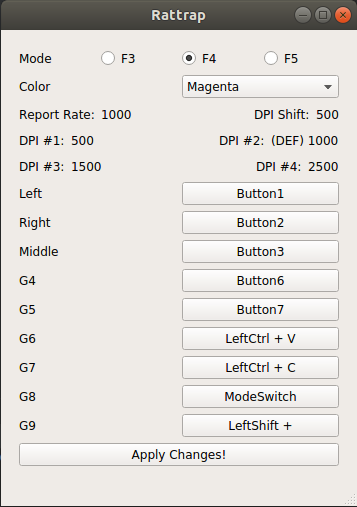
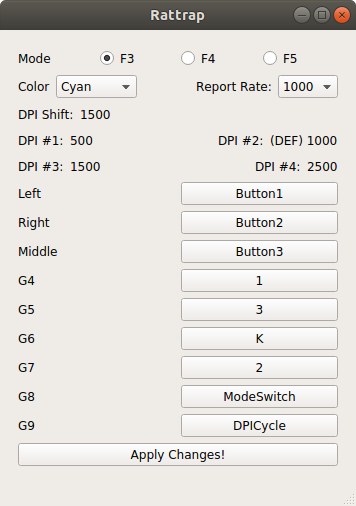
Add functionality to control report rate, remove unnecessary lines

diff --git a/ui_rattrap.py b/ui_rattrap.py
@@ -56,23 +56,29 @@ class Ui_Rattrap(object):
         self.color.addItem("")
         self.color.addItem("")
         self.horizontalLayout_3.addWidget(self.color)
+        spacerItem = QtWidgets.QSpacerItem(40, 20, QtWidgets.QSizePolicy.Expanding, QtWidgets.QSizePolicy.Minimum)
+        self.horizontalLayout_3.addItem(spacerItem)
+        self.label_rate = QtWidgets.QLabel(self.widget)
+        self.label_rate.setObjectName("label_rate")
+        self.horizontalLayout_3.addWidget(self.label_rate)
+        self.rate = QtWidgets.QComboBox(self.widget)
+        self.rate.setObjectName("rate")
+        self.rate.addItem("")
+        self.rate.addItem("")
+        self.rate.addItem("")
+        self.rate.addItem("")
+        self.horizontalLayout_3.addWidget(self.rate)
         self.verticalLayout_3.addLayout(self.horizontalLayout_3)
         self.horizontalLayout_16 = QtWidgets.QHBoxLayout()
         self.horizontalLayout_16.setObjectName("horizontalLayout_16")
-        self.label_rate = QtWidgets.QLabel(self.widget)
-        self.label_rate.setObjectName("label_rate")
-        self.horizontalLayout_16.addWidget(self.label_rate)
-        self.rate = QtWidgets.QLabel(self.widget)
-        self.rate.setObjectName("rate")
-        self.horizontalLayout_16.addWidget(self.rate)
-        spacerItem = QtWidgets.QSpacerItem(40, 20, QtWidgets.QSizePolicy.Expanding, QtWidgets.QSizePolicy.Minimum)
-        self.horizontalLayout_16.addItem(spacerItem)
         self.label = QtWidgets.QLabel(self.widget)
         self.label.setObjectName("label")
         self.horizontalLayout_16.addWidget(self.label)
         self.dpi_shift = QtWidgets.QLabel(self.widget)
         self.dpi_shift.setObjectName("dpi_shift")
         self.horizontalLayout_16.addWidget(self.dpi_shift)
+        spacerItem1 = QtWidgets.QSpacerItem(40, 20, QtWidgets.QSizePolicy.Expanding, QtWidgets.QSizePolicy.Minimum)
+        self.horizontalLayout_16.addItem(spacerItem1)
         self.verticalLayout_3.addLayout(self.horizontalLayout_16)
         self.horizontalLayout_14 = QtWidgets.QHBoxLayout()
         self.horizontalLayout_14.setObjectName("horizontalLayout_14")
@@ -82,8 +88,8 @@ class Ui_Rattrap(object):
         self.dpi1 = QtWidgets.QLabel(self.widget)
         self.dpi1.setObjectName("dpi1")
         self.horizontalLayout_14.addWidget(self.dpi1)
-        spacerItem1 = QtWidgets.QSpacerItem(40, 20, QtWidgets.QSizePolicy.Expanding, QtWidgets.QSizePolicy.Minimum)
-        self.horizontalLayout_14.addItem(spacerItem1)
+        spacerItem2 = QtWidgets.QSpacerItem(40, 20, QtWidgets.QSizePolicy.Expanding, QtWidgets.QSizePolicy.Minimum)
+        self.horizontalLayout_14.addItem(spacerItem2)
         self.label_dpi2 = QtWidgets.QLabel(self.widget)
         self.label_dpi2.setObjectName("label_dpi2")
         self.horizontalLayout_14.addWidget(self.label_dpi2)
@@ -99,8 +105,8 @@ class Ui_Rattrap(object):
         self.dpi3 = QtWidgets.QLabel(self.widget)
         self.dpi3.setObjectName("dpi3")
         self.horizontalLayout_15.addWidget(self.dpi3)
-        spacerItem2 = QtWidgets.QSpacerItem(40, 20, QtWidgets.QSizePolicy.Expanding, QtWidgets.QSizePolicy.Minimum)
-        self.horizontalLayout_15.addItem(spacerItem2)
+        spacerItem3 = QtWidgets.QSpacerItem(40, 20, QtWidgets.QSizePolicy.Expanding, QtWidgets.QSizePolicy.Minimum)
+        self.horizontalLayout_15.addItem(spacerItem3)
         self.label_dpi4 = QtWidgets.QLabel(self.widget)
         self.label_dpi4.setObjectName("label_dpi4")
         self.horizontalLayout_15.addWidget(self.label_dpi4)
@@ -224,7 +230,10 @@ class Ui_Rattrap(object):
         self.color.setItemText(6, _translate("Rattrap", "White"))
         self.color.setItemText(7, _translate("Rattrap", "Green"))
         self.label_rate.setText(_translate("Rattrap", "Report Rate:"))
-        self.rate.setText(_translate("Rattrap", "Not Defined"))
+        self.rate.setItemText(0, _translate("Rattrap", "125"))
+        self.rate.setItemText(1, _translate("Rattrap", "250"))
+        self.rate.setItemText(2, _translate("Rattrap", "500"))
+        self.rate.setItemText(3, _translate("Rattrap", "1000"))
         self.label.setText(_translate("Rattrap", "DPI Shift:"))
         self.dpi_shift.setText(_translate("Rattrap", "Not Defined"))
         self.label_dpi1.setText(_translate("Rattrap", "DPI #1:"))

diff --git a/application.py b/application.py
@@ -6,16 +6,15 @@ from db_helper import DBHelper, sql  # Change this later
 from ui_rattrap import Ui_Rattrap
 
 
-class WTFException(Exception):
-    pass
-
-
 class RattrapWindow(QtWidgets.QMainWindow, Ui_Rattrap):
     def __init__(self):
         super().__init__()
         self.setupUi(self)
+
         self.resize(356, 456)
+        self.move(QtWidgets.QApplication.desktop().screen().rect().center() - self.rect().center())
         self.setWindowTitle("Rattrap")
+
         self.current_mode_name = None
 
         self.radio_buttons = [i for i in [getattr(self, "radiobtn_mode" + i) for i in "123"]]
@@ -23,10 +22,12 @@ class RattrapWindow(QtWidgets.QMainWindow, Ui_Rattrap):
             radio_btn.clicked.connect(self.set_current_mode)
         self.radiobtn_mode1.setChecked(True)
 
-        self.color.currentTextChanged.connect(self.color_changed)
+        self.combo_boxes = [self.color, self.rate]
+        for combo_box in self.combo_boxes:
+            combo_box.currentTextChanged.connect(self.combo_box_changed)
 
-        self.not_changeable_items = [getattr(self, "dpi" + i) for i in "1234"] + [self.rate] + [self.dpi_shift]
-        print(self.not_changeable_items)
+        self.unchangeable_items = [getattr(self, "dpi" + i) for i in "1234"] + [self.dpi_shift]
+
         self.buttons = [self.right, self.middle, self.left]
         self.buttons.extend([getattr(self, "g" + str(i)) for i in range(4, 10)])
         for button in self.buttons:
@@ -57,14 +58,17 @@ class RattrapWindow(QtWidgets.QMainWindow, Ui_Rattrap):
     def set_current_mode(self):
         self.current_mode_name = "f" + str([i.isChecked() for i in self.radio_buttons].index(True) + 3)  # f3, f4 or f5
         current_mode = self.get_mode(self.current_mode_name)
-        self.color.setCurrentText(current_mode["color"].title())
-        for key in current_mode:
-            for item in self.buttons + self.not_changeable_items:
-                if item.objectName() == key:
-                    item.setText(current_mode[key])
 
-    def color_changed(self, color):
-        self.conn.update_value("profiles", "color", color.lower(), name=self.current_mode_name)
+        for item in self.combo_boxes + self.unchangeable_items + self.buttons:
+            name = item.objectName()
+            try:
+                item.setText(current_mode[name])
+            except AttributeError:
+                item.setCurrentText(current_mode[name].title())
+
+    def combo_box_changed(self, value):
+        property_name = self.sender().objectName()
+        self.conn.update_value("profiles", property_name, value.lower(), name=self.current_mode_name)
 
     def assign_shortcut(self):
         button = self.sender()

diff --git a/ratslap.py b/ratslap.py
@@ -11,10 +11,6 @@ r = "r"
 c = "c"
 
 
-class WTFException(Exception):
-    pass
-
-
 class PermissionDeniedError(Exception):
     pass
 
@@ -50,7 +46,7 @@ class Ratslap:
         else:
             output, error = map(lambda f: f.decode("utf-8").splitlines(), [process.stdout, process.stderr])
         if error:
-            raise WTFException(process.stderr)
+            raise Exception(process.stderr)
 
         for line in output:
             if line.startswith("-"):
@@ -71,7 +67,7 @@ class Ratslap:
                 err = process.stderr.decode("utf-8").split(": ", 1)[1]
                 raise PermissionDeniedError(err)
             except IndexError:
-                raise WTFException(process.stderr.decode("utf-8"))
+                raise Exception(process.stderr.decode("utf-8"))
 
         output = process.stdout.decode("utf-8")
         if pretty:
